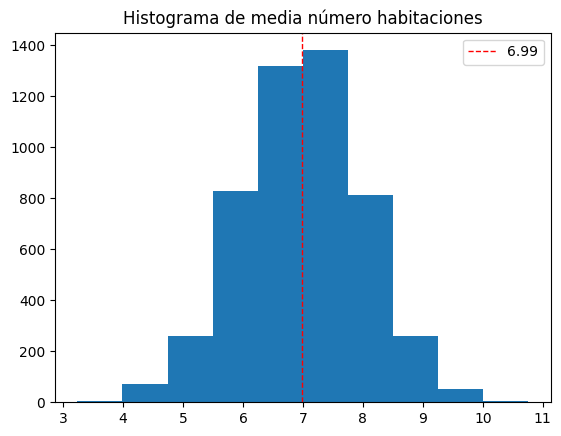
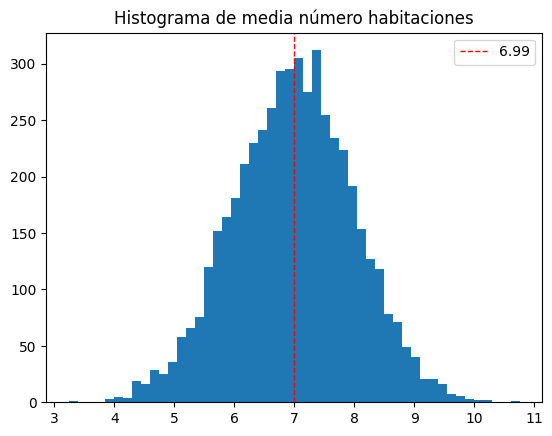
comentarios

diff --git a/funciones.py b/funciones.py
@@ -81,32 +81,28 @@ Calculamos unos datos estadísticos de cada columna para que nos facilite la com
 y nos proporcione más información
 '''
 def histograma(variable, media, desviacion_tipica, varianza):
-    min = df[variable].min()
-    max = df[variable].max()
-    x = np.arange(min, max, 0.01)
-    f = 1/(desviacion_tipica * np.sqrt(2*np.pi)) * np.exp(-(x - media) ** 2/(2 * varianza))
-    fig, ax1 = plt.subplots()
-    ax1.hist(df[variable])
-    ax2 = ax1.twinx()
-    ax2.plot(x, f, color = 'black', linestyle = 'dashed', linewidth=3)
+    fig, ax = plt.subplots()
+    ax.hist(df[variable], bins= 50)
     plt.title('Histograma de {}'.format(variable))
     plt.axvline(media, color='red', linestyle='dashed', linewidth=1,label = str(media))
     plt.legend(loc='upper right')
     plt.savefig('img/Histograma de {}'.format(variable) + '.png', bbox_inches='tight')
     plt.show()
-    
+'''
+Tras ver estos histogramas podemos apreciar que algunas de las variables numérica tienen una distribución simétrica, 
+es decir, se asemeja a la campana de Gauss. Los gráficos que hemos podido ver esto es en las variables: precio y 
+media salario. La media número de habitaciones y la población también tienen bastante simetría, pero no la suficiente como para considerarse 
+una campana de Gauss.
+
+'''
 
 numericVar = ['precio', 'media salario', 'media antugüedad casas', 'media número habitaciones','media número dormitorios por casa', 'población']
-'''for n in numericVar:
+for n in numericVar:
     media = round(calculomedia(n), 2)
     varianza = round(calculovarianza(n, media), 2)
     desviacion_tip = round((varianza**(1/2)), 2)
     print(desviacion_tip)
     print(df[n].describe())
     print('\n')
-    histograma( n, media, desviacion_tip, varianza)'''
+    histograma( n, media, desviacion_tip, varianza)
 
-media = round(calculomedia(numericVar[0]), 2)
-varianza = round(calculovarianza(numericVar[0], media), 2)
-desviacion_tip = round((varianza**(1/2)), 2)
-histograma(numericVar[0], media, desviacion_tip, varianza)
